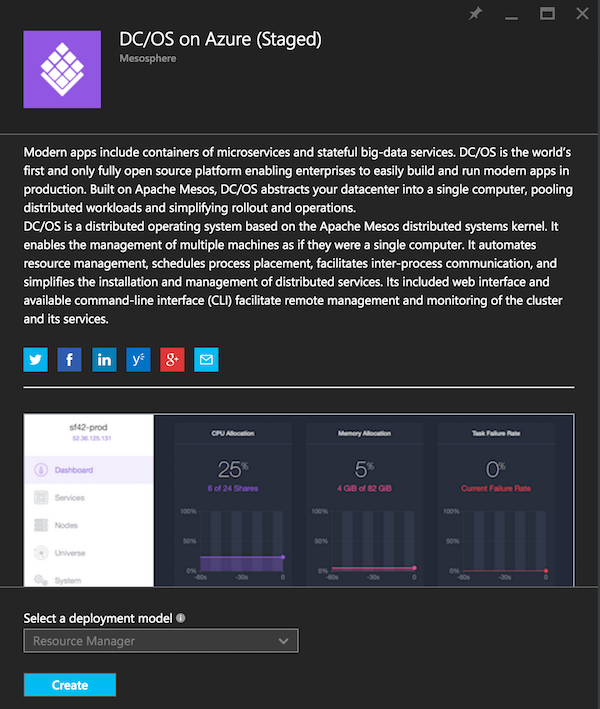
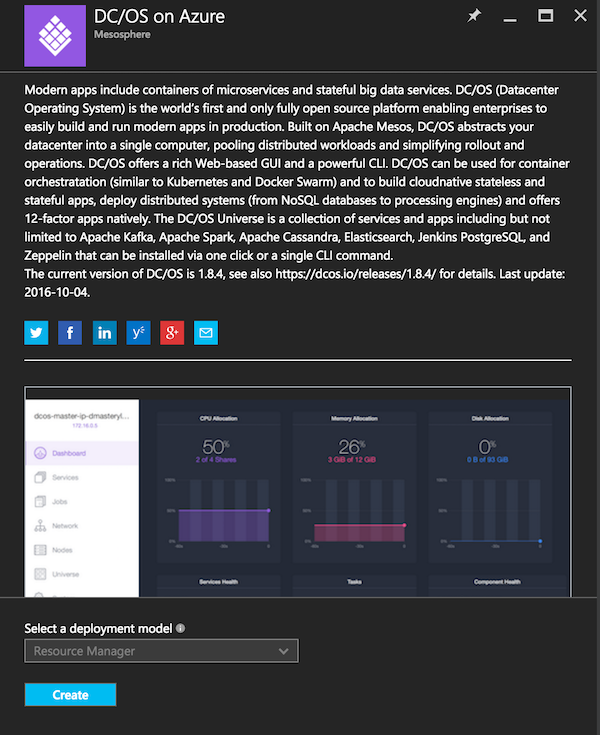
updates Azure 1.8 install

diff --git a/1.8/administration/installing/cloud/azure.md b/1.8/administration/installing/cloud/azure.md
@@ -14,9 +14,9 @@ TIP: To get support on Azure Marketplace-related questions, join the Azure Marke
 
 ## Hardware
 
-To [use](/docs/1.8/usage/) all of the services offered in DC/OS, you should choose at least five Mesos Agents using `Standard_D2` [Virtual Machines](https://azure.microsoft.com/en-us/pricing/details/virtual-machines/), which is the default size in the DC/OS Azure Marketplace offering.
+To [use](/docs/1.8/usage/) all of the services offered in DC/OS, you should choose at least five Mesos Agents using `Standard_D2` [Virtual Machines](https://azure.microsoft.com/en-us/pricing/details/virtual-machines/).
 
-Selecting smaller-sized VMs is not recommended, and selecting fewer VMs will likely cause certain resource-intensive services such as distributed datastores not to work properly (from installation issues to operational limitations).
+Selecting smaller-sized VMs is not recommended and selecting fewer VMs will likely cause certain resource-intensive services such as distributed datastores not to work properly, ranging from installation issues to operational limitations.
 
 ## Software
 
@@ -40,47 +40,77 @@ In the template, click on `Create`:
 
 ![Creating deployment using DC/OS template](../img/dcos-azure-marketplace-step1c.png)
 
-Complete the installation wizard steps. Note: you are only required to fill in the `Basic` section, however it is strongly recommended that you create a new resource group (simplifies installation and cluster teardown):
+Complete the installation wizard steps. Note: you are only required to fill in the `Basic` section, however it is strongly recommended that you create a new resource group (simplifies installation and cluster teardown). With the `Enable OAuth authentication` you can influence the [security](/docs/1.8/administration/id-and-access-mgt/) settings. By default, no user authentication is performed by DC/OS, and to enable OAuth-based authentication for your cluster, set it to `true`:
 
 ![Filling in DC/OS template](../img/dcos-azure-marketplace-step1d.png)
 
-After you've clicked on the final `Create` button you should see something like the screen below. The default 5 node configuration should take about 15 minutes to deploy.
+After you've clicked on the final `Create` button you should see something like the screen below. The deployment process should take about 10 minutes:
 
 ![Deploying DC/OS template](../img/dcos-azure-marketplace-step1e.png)
 
-After the deployment succeeded, click on the resource group (`mydcoscluster` here) and you should get to the resource group. If you don't see it, try searching for your research group and if the deployment failed, delete the deployment and the resource group and start again:
+After the deployment succeeded, click on the resource group (`mydcoscluster` here) and you should get to the resource group. If you don't see it, try searching for your resource group and if the deployment failed, delete the deployment and the resource group and start again:
 
 ![DC/OS template successfully deployed](../img/dcos-azure-marketplace-step1f.png)
 
-Congratulations, you have now deployed DC/OS by using an Azure Resource Manager template! Next we will access the cluster.
+Congratulations, you have now deployed DC/OS by using an Azure Resource Manager template! Next we will show how to access the cluster.
 
 ## Step 2: Accessing DC/OS
 
 Because of security considerations, the DC/OS cluster in Azure is locked down by default. You must use an `ssh` tunnel to access the DC/OS Dashboard.
 
-First, look up `MASTERFQDN` in the outputs of the deployment. To find that, click on the link under `Last deployment` (which is `4/15/2016 (Succeeded)` here) and you should see this:
+First, look up `MASTERFQDN` in the outputs of the deployment. To find that, click on the link under `Last deployment` (which is `10/5/2016 (Succeeded)` here) and you should see something like this:
 
 ![Deployment history](../img/dcos-azure-marketplace-step2a.png)
 
-Click on the latest deployment and copy the value of `MASTERFQDN` in the `Outputs` section:
+Click on the latest deployment (here `mesosphere.dcosdcos-20160905094201`) and copy the value of `MASTERFQDN` in the `Outputs` section (in this case its `dcosmastersfjro3nzmohea.westus.cloudapp.azure.com`):
 
 ![Deployment output](../img/dcos-azure-marketplace-step2b.png)
 
 Use the value of `MASTERFQDN` you found in the `Outputs` section in the previous step and paste it in the following command:
 
 ```bash
-$ ssh azureuser@masterfqdn -p 2200 -L 8000:localhost:80
+$ ssh azureuser@$MASTERFQDN -p 2200 -L 8000:localhost:80
 ```
 
 For example, in my case:
 
 ```bash
-$ ssh azureuser@dcosmaster.westus.cloudapp.azure.com -p 2200 -L 8000:localhost:80
+$ export MASTERFQDN=dcosmastersfjro3nzmohea.westus.cloudapp.azure.com
+$ ssh -p2200 azureuser@$MASTERFQDN -L 8000:localhost:80
+The authenticity of host '[dcosmastersfjro3nzmohea.westus.cloudapp.azure.com]:2200 ([23.101.195.125]:2200)' can't be established.
+ECDSA key fingerprint is SHA256:RD7nTZ4tzrKF/g4pvWvMFQk5GnCB6JqPA2MYycIoGGM.
+Are you sure you want to continue connecting (yes/no)? yes
+Warning: Permanently added '[dcosmastersfjro3nzmohea.westus.cloudapp.azure.com]:2200,[23.101.195.125]:2200' (ECDSA) to the list of known hosts.
+Welcome to Ubuntu 16.04 LTS (GNU/Linux 4.4.0-28-generic x86_64)
+
+ * Documentation:  https://help.ubuntu.com/
+
+  Get cloud support with Ubuntu Advantage Cloud Guest:
+    http://www.ubuntu.com/business/services/cloud
+
+0 packages can be updated.
+0 updates are security updates.
+
+The programs included with the Ubuntu system are free software;
+the exact distribution terms for each program are described in the
+individual files in /usr/share/doc/*/copyright.
+
+Ubuntu comes with ABSOLUTELY NO WARRANTY, to the extent permitted by
+applicable law.
+
+To run a command as administrator (user "root"), use "sudo <command>".
+See "man sudo_root" for details.
+
+azureuser@dcos-master-01234567-0:~$
 ```
 
-Now you can visit `http://localhost:8000` on your local machine and view the DC/OS Dashboard.
+Visit `http://localhost:8000` on your local machine to access the DC/OS Dashboard. Note that if you set `Enable OAuth authentication` to `true` you'll have to first [authenticate](/docs/1.8/administration/id-and-access-mgt/managing-authentication/) using one of the three default OAuth providers (Google, GitHub, Microsoft):
 
-![DC/OS dashboard](../img/ui-dashboard.gif)
+![Authenticate](../img/dcos-azure-marketplace-step2c.png)
+
+Now you should see something like the following as a result:
+
+![DC/OS Dashboard](../img/dcos-azure-marketplace-step2d.png)
 
 ### Caveats
 
@@ -93,28 +123,26 @@ Some caveats around SSH access:
 
 The DC/OS UI will not show the correct IP address or CLI install commands when connected by using an SSH tunnel.
 
-Note that the following commands can be used to run the DC/OS CLI directly on the master node:
+The following commands can be used to run the DC/OS CLI directly from within the cluster, using the DC/OS Master node:
 
 ```bash
 # Connect to master node with ssh
-$ ssh -p2200 azureuser@MASTER_LOAD_BALANCER -L 8000:localhost:80
+$ ssh -p2200 azureuser@MASTERFQDN -L 8000:localhost:80
 
-# Install virtualenv
-$ sudo apt-get -y install virtualenv
-
-# Install CLI on the master node and configure with http://localhost
-$ mkdir -p dcos && cd dcos &&
-$ curl -O https://downloads.dcos.io/dcos-cli/install-optout.sh && \
-   bash ./install-optout.sh . http://localhost && \
-   source ./bin/env-setup
-
-# Now you can use the DC/OS CLI:
-$ dcos package search
+# Install CLI
+azureuser@dcos-master-01234567-0:~$ curl -fLsS --retry 20 -Y 100000 -y 60 https://downloads.dcos.io/binaries/cli/linux/x86-64/dcos-1.8/dcos -o dcos && 
+ sudo mv dcos /usr/local/bin && 
+ sudo chmod +x /usr/local/bin/dcos && 
+ dcos config set core.dcos_url http://localhost
 ```
 
 ## Tear Down the DC/OS cluster
 
-If you've created a new resource group in the deployment step, it is as easy as this to tear down the cluster and release all of the resources: just delete the resource group. If you have deployed the cluster into an existing resource group, you'll need to identify all resources that belong to the DC/OS cluster and manually delete them.
+If you've created a new resource group in the deployment step it is straightforward to tear down the cluster and release all of the resources. Just delete the resource group as follows:
+
+![Tear down DC/OS cluster](../img/dcos-azure-marketplace-step2e.png)
+
+If you have deployed the cluster into an existing resource group, you'll need to identify all resources that belong to the DC/OS cluster and manually delete them.
 
 ## Next steps
 
